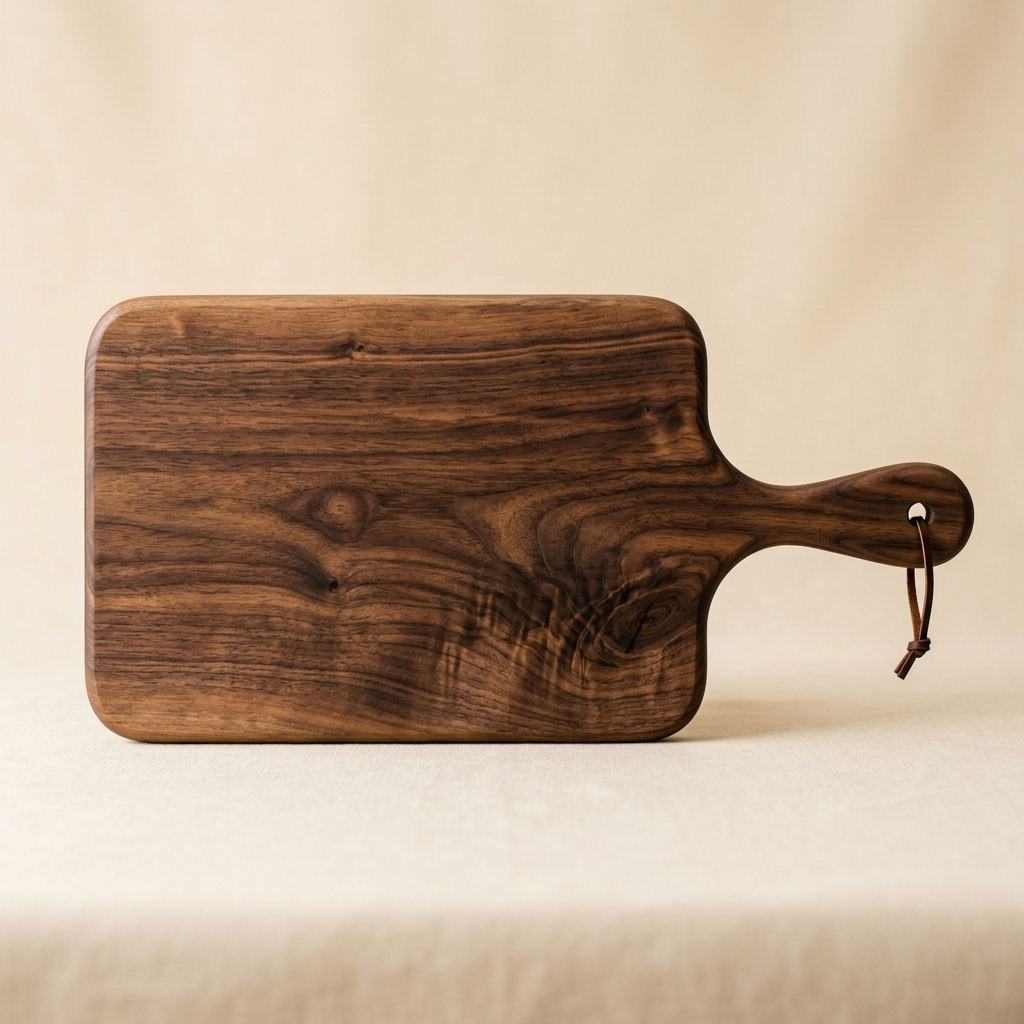
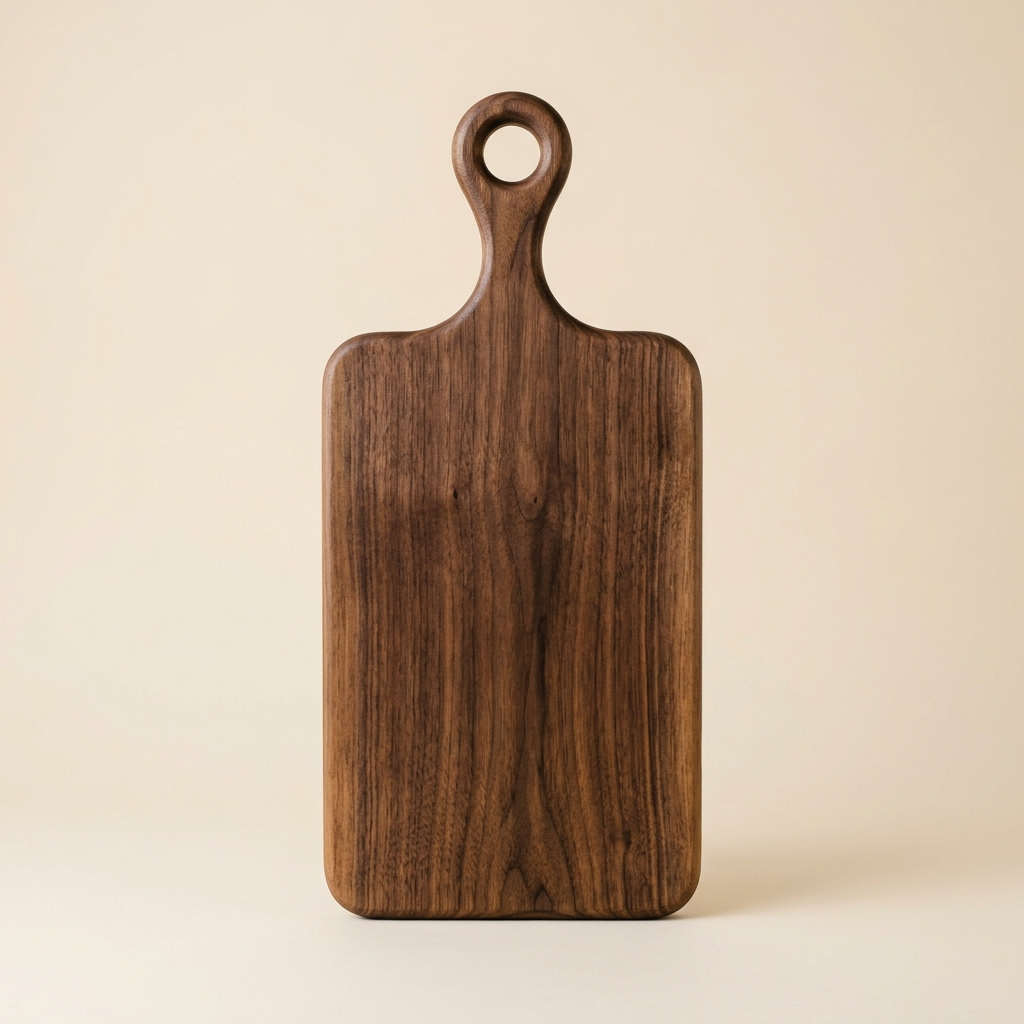
feat: add global stylesheet and kitchen utensils category asset

diff --git a/src/index.css b/src/index.css
@@ -648,7 +648,7 @@ code {
   font-weight: 800;
   letter-spacing: 0.05em;
   text-transform: uppercase;
-  color: #055531;
+  color: #000000;
   text-align: center;
   line-height: 1.2;
 }
@@ -665,7 +665,7 @@ code {
   display: flex;
   flex-direction: column;
   border: 1.5px solid #055531;
-  background: #ffffff;
+  background: #055531;
   overflow: hidden;
   cursor: pointer;
   box-sizing: border-box;
@@ -696,24 +696,25 @@ code {
 .category-bottom-bar {
   background: #055531;
   color: #ffffff;
-  padding: 0.5rem 0.25rem;
-  min-height: 42px;
+  padding: 0.42rem 0.15rem;
   display: flex;
   align-items: center;
   justify-content: center;
   text-align: center;
-  border-top: 1.5px solid #055531;
   box-sizing: border-box;
+  border: none;
+  margin: 0;
 }
 
 .category-name-text {
   font-family: var(--font-family-heading);
-  font-size: 0.6875rem;
+  font-size: clamp(0.56rem, 2.25vw, 0.6875rem);
   font-weight: 700;
-  letter-spacing: 0.04em;
+  letter-spacing: 0.03em;
   text-transform: uppercase;
   color: #ffffff;
   line-height: 1.2;
+  white-space: nowrap;
 }
 
 /* ==========================================================================
